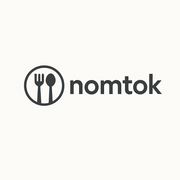
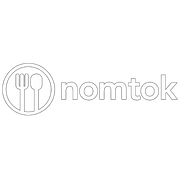
refactor(home): streamline API URL handling and remove redundant environment variable
- Remove the deprecated API_URL environment variable from docker-compose.prod.yml, relying solely on NEXT_PUBLIC_API_URL for API calls.
- Update fetchHomePageData to simplify API URL determination, ensuring consistent behavior across environments.
- Add new favicon files for light and dark modes to enhance visual consistency across themes.

Changed region(s): [[0.0, 0.3333, 1.0, 0.6667]]

diff --git a/frontend/lib/actions/home-actions.ts b/frontend/lib/actions/home-actions.ts
@@ -11,19 +11,12 @@ interface HomePageData {
 }
 
 export async function fetchHomePageData(): Promise<HomePageData> {
-  // Use the same pattern as detail pages
-  // Check runtime env var first (for Docker), then build-time NEXT_PUBLIC_ var, then fallback
-  const base = process.env.API_URL || process.env.NEXT_PUBLIC_API_URL || "http://localhost:8030";
-  const baseUrl = base.replace(/\/$/, '');
-  
-  // In Docker production, if no env var is set, use internal service name
-  const apiBaseUrl = baseUrl && baseUrl !== 'undefined'
-    ? baseUrl
-    : (process.env.NODE_ENV === 'production'
-        ? 'http://backend:8000'
-        : 'http://localhost:8030');
-  
-  const finalBaseUrl = apiBaseUrl.replace(/\/$/, '');
+  // Use the same pattern as sitemap generation
+  // NEXT_PUBLIC_API_URL is available at both build-time and runtime
+  // Falls back to 'http://backend:8000' for Docker production, or 'http://localhost:8030' for local dev
+  const API_URL = (process.env.NEXT_PUBLIC_API_URL || 
+    (process.env.NODE_ENV === 'production' ? 'http://backend:8000' : 'http://localhost:8030')
+  ).replace(/\/$/, '');
 
   const [
     popularCitiesData,
@@ -33,12 +26,12 @@ export async function fetchHomePageData(): Promise<HomePageData> {
     restaurantsForAboutData,
   ] = await Promise.allSettled([
     // Popular cities (full list of top 5)
-    axios.get(`${finalBaseUrl}/restaurants/popular-cities/`, { timeout: 60000 }).then(res => {
+    axios.get(`${API_URL}/restaurants/popular-cities/`, { timeout: 60000 }).then(res => {
       console.log('[HomePage] Popular cities fetched:', res.data?.length || 0);
       return res.data;
     }),
     // Top cities with restaurants (top 2 cities with their restaurants)
-    axios.get(`${finalBaseUrl}/restaurants/top-cities-with-restaurants/`, {
+    axios.get(`${API_URL}/restaurants/top-cities-with-restaurants/`, {
       params: { limit: 2, restaurants_per_city: 6 },
       timeout: 60000,
     }).then(res => {
@@ -47,7 +40,7 @@ export async function fetchHomePageData(): Promise<HomePageData> {
     }),
             // Recent restaurants (with listings to sort by most recent listing)
             // Set include_video_details=false to reduce payload size and speed up request
-            axios.get(`${finalBaseUrl}/restaurants/`, {
+            axios.get(`${API_URL}/restaurants/`, {
       params: {
         sort_by: 'updated',
         limit: 6,
@@ -63,7 +56,7 @@ export async function fetchHomePageData(): Promise<HomePageData> {
     }),
             // Mark Weins restaurants
             // Set include_video_details=false to reduce payload size and speed up request
-            axios.get(`${finalBaseUrl}/restaurants/`, {
+            axios.get(`${API_URL}/restaurants/`, {
       params: {
         influencer_id: 'mark-wiens',
         limit: 6,
@@ -78,7 +71,7 @@ export async function fetchHomePageData(): Promise<HomePageData> {
       return res.data;
     }),
             // Restaurants for About section (5 restaurants with photos)
-            axios.get(`${finalBaseUrl}/restaurants/`, {
+            axios.get(`${API_URL}/restaurants/`, {
       params: {
         limit: 10,
       },
